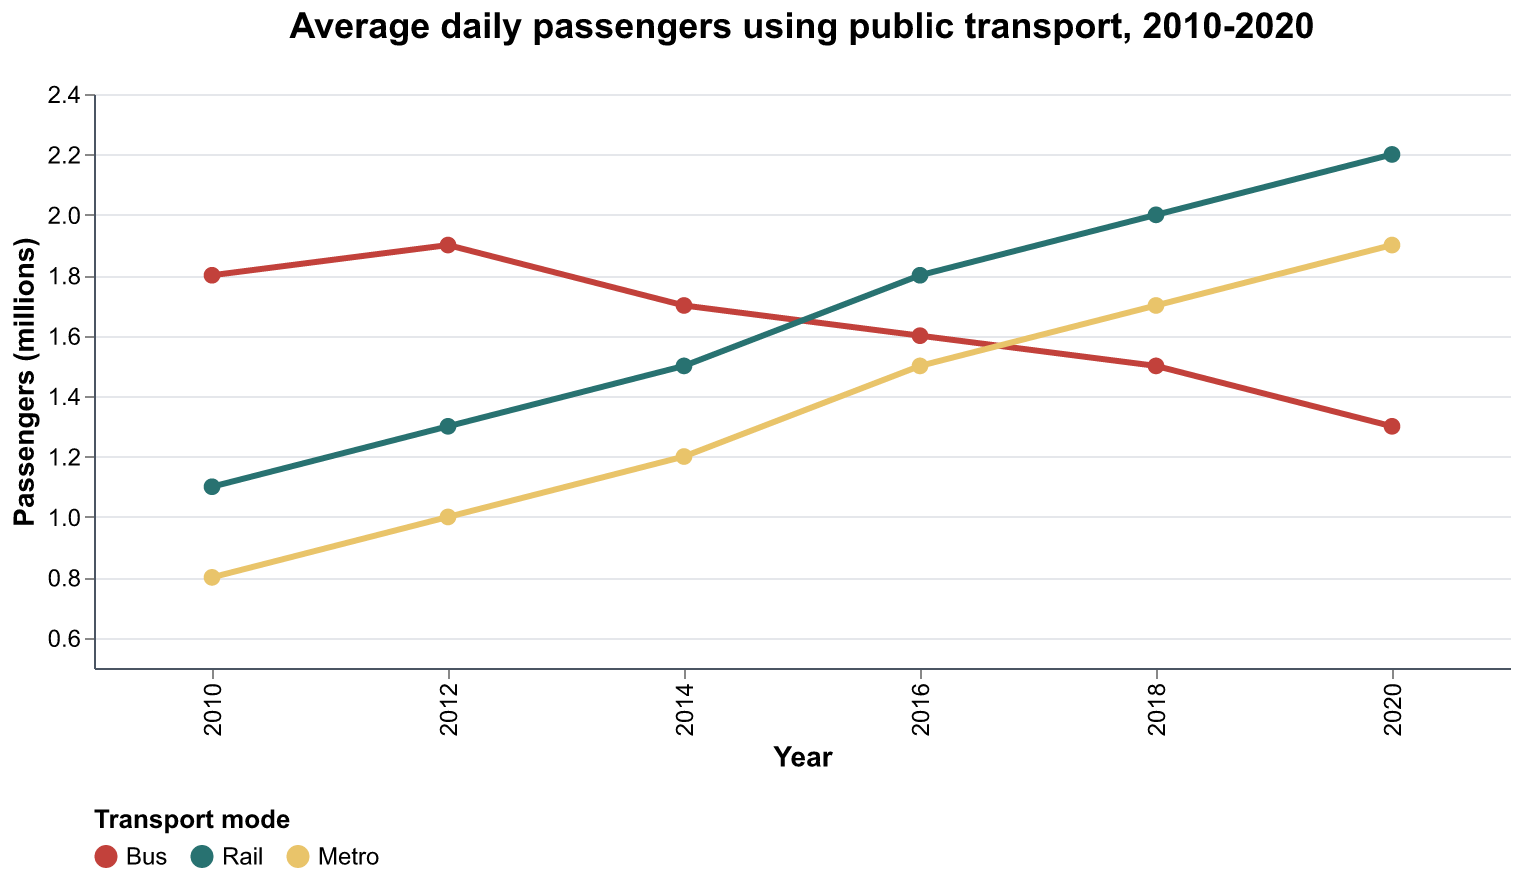
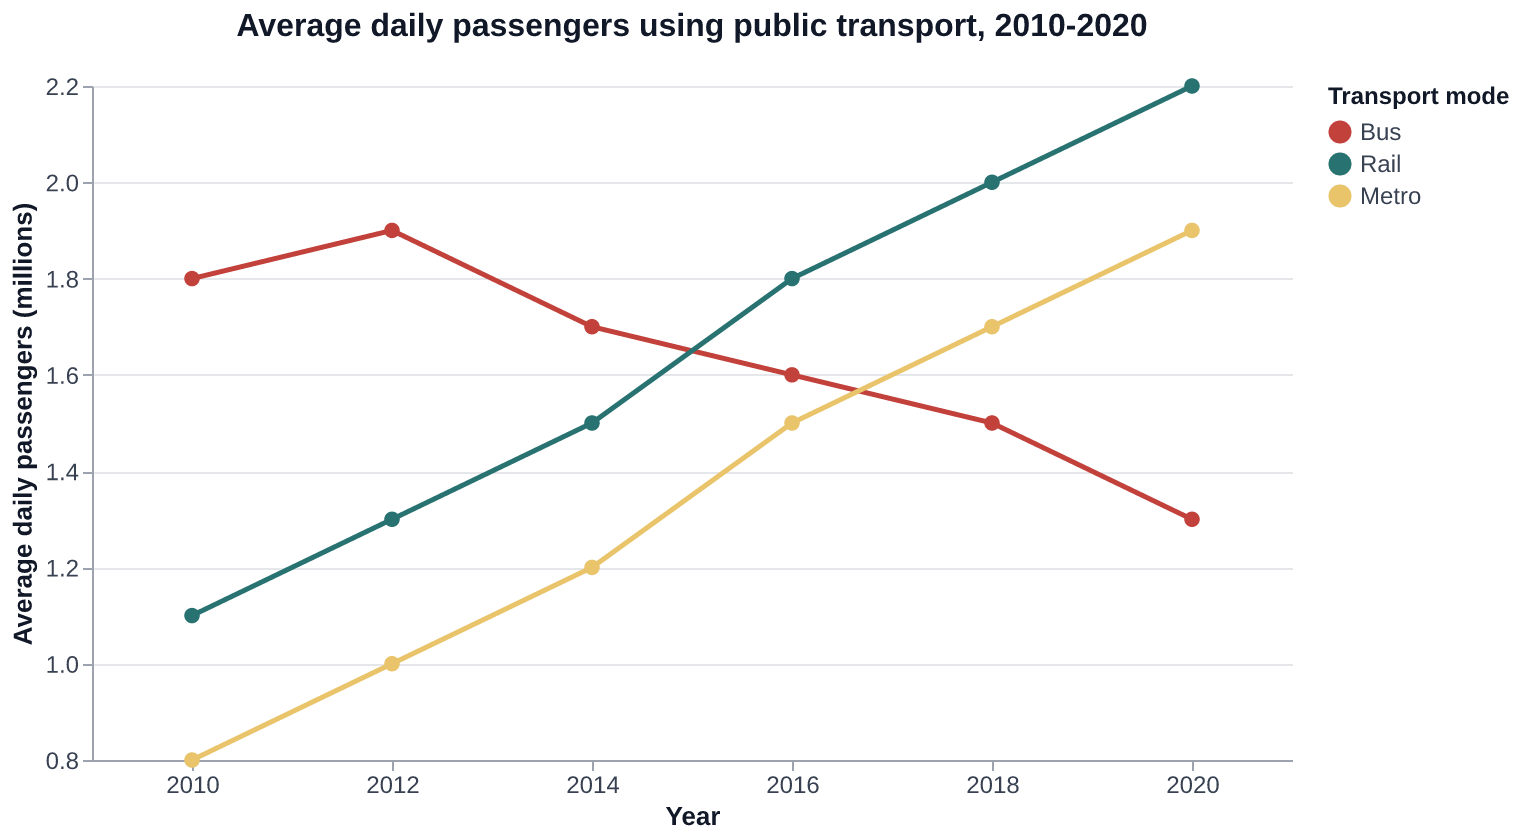
Update line sample and visual cue alignment

diff --git a/frontend/tests/practiceSamples.test.js b/frontend/tests/practiceSamples.test.js
@@ -32,7 +32,7 @@ test('loads a practice image only from static assets and returns its saved DePlo
 
   const { sample, file } = await loadPracticeSample('line-passengers', fetchImpl);
 
-  assert.deepEqual(requestedUrls, ['/practice-samples/02_line_daily_passengers.png']);
+  assert.deepEqual(requestedUrls, ['/practice-samples/02_line_daily_passengers.png?v=32b88ae2']);
   assert.ok(requestedUrls.every((url) => !url.startsWith('/api/')));
   assert.equal(file.name, '02_line_daily_passengers.png');
   assert.equal(file.type, 'image/png');

diff --git a/frontend/src/practiceSamples.js b/frontend/src/practiceSamples.js
@@ -20,7 +20,7 @@ const PRACTICE_SAMPLE_LIST = [
     id: 'line-passengers',
     label: 'Line graph: public transport use',
     chartType: 'line',
-    imageUrl: '/practice-samples/02_line_daily_passengers.png',
+    imageUrl: '/practice-samples/02_line_daily_passengers.png?v=32b88ae2',
     fileName: '02_line_daily_passengers.png',
     deplotText: [
       'TITLE | Average daily passengers using public transport, 2010-2020',

diff --git a/backend/tests/test_move_feedback.py b/backend/tests/test_move_feedback.py
@@ -12,6 +12,8 @@ from move_visual_feedback import (
     RECOMMENDED_LABEL,
     _detect_bar_boxes,
     _draw_callout,
+    _line_data_bbox,
+    _record_boxes,
     render_move_visuals,
 )
 
@@ -904,6 +906,56 @@ class MoveFeedbackTests(unittest.TestCase):
             self.assertIn(tuple(int(CURRENT_COLOR[index:index + 2], 16) for index in (1, 3, 5)), colour_set)
             self.assertIn(tuple(int(RECOMMENDED_COLOR[index:index + 2], 16) for index in (1, 3, 5)), colour_set)
             self.assertEqual(assessment["visual"]["current_focus_labels"][0], "South · 2010 · 18")
+
+    def test_line_visual_ignores_right_legend_and_tracks_new_sample_points(self):
+        source_path = (
+            Path(__file__).resolve().parents[2]
+            / "frontend"
+            / "public"
+            / "practice-samples"
+            / "02_line_daily_passengers.png"
+        )
+        years = ("2010", "2012", "2014", "2016", "2018", "2020")
+        series_values = {
+            "Bus": (1.8, 1.9, 1.7, 1.6, 1.5, 1.3),
+            "Rail": (1.1, 1.3, 1.5, 1.8, 2.0, 2.2),
+            "Metro": (0.8, 1.0, 1.2, 1.5, 1.7, 1.9),
+        }
+        records = [
+            {
+                "period": year,
+                "series": series,
+                "value": series_values[series][year_index],
+                "official_value": series_values[series][year_index],
+            }
+            for year_index, year in enumerate(years)
+            for series in series_values
+        ]
+
+        with Image.open(source_path) as source:
+            bbox = _line_data_bbox(source)
+            boxes = _record_boxes("line", records, source)
+
+        self.assertIsNotNone(bbox)
+        self.assertLess(bbox[0], 205)
+        self.assertGreater(bbox[2], 1180)
+        self.assertLess(bbox[2], 1230)
+        self.assertLess(bbox[1], 100)
+        self.assertGreater(bbox[3], 745)
+
+        def center(index):
+            box = boxes[index]
+            return ((box[0] + box[2]) / 2, (box[1] + box[3]) / 2)
+
+        bus_2010 = center(0)
+        rail_2020 = center(16)
+        metro_2010 = center(2)
+        self.assertAlmostEqual(bus_2010[0], 192, delta=18)
+        self.assertAlmostEqual(bus_2010[1], 279, delta=18)
+        self.assertAlmostEqual(rail_2020[0], 1192, delta=18)
+        self.assertAlmostEqual(rail_2020[1], 86, delta=18)
+        self.assertAlmostEqual(metro_2010[0], 192, delta=18)
+        self.assertAlmostEqual(metro_2010[1], 761, delta=18)
 
     def test_bar_visual_uses_real_bar_bounds_and_teacher_callouts(self):
         source_path = (

diff --git a/backend/move_visual_feedback.py b/backend/move_visual_feedback.py
@@ -99,6 +99,46 @@ def _fallback_plot_bbox(image: Image.Image) -> tuple[int, int, int, int]:
     )
 
 
+def _line_data_bbox(image: Image.Image) -> tuple[int, int, int, int] | None:
+    """Find the continuous line-mark span without absorbing detached legend swatches."""
+    rgb = np.asarray(image.convert("RGB"))
+    height, width = rgb.shape[:2]
+    maximum = rgb.max(axis=2)
+    minimum = rgb.min(axis=2)
+    saturation = maximum - minimum
+    mask = (saturation >= 34) & (maximum <= 250) & (maximum >= 45)
+
+    crop = np.zeros_like(mask)
+    crop[
+        max(0, int(height * 0.04)) : min(height, int(height * 0.96)),
+        max(0, int(width * 0.03)) : min(width, int(width * 0.97)),
+    ] = True
+    mask &= crop
+
+    # A plotted line occupies a long, continuous run of x coordinates. Legend
+    # swatches form short detached runs, even when the legend sits beside the plot.
+    active_columns = mask.sum(axis=0) >= max(2, int(height * 0.002))
+    runs = sorted(
+        _contiguous_runs(active_columns),
+        key=lambda run: run[1] - run[0],
+        reverse=True,
+    )
+    for start, end in runs:
+        if end - start < width * 0.15:
+            continue
+        section = mask[:, start : end + 1]
+        y_values, x_values = np.nonzero(section)
+        if len(x_values) < max(40, int(width * height * 0.0001)):
+            continue
+        return (
+            int(start + x_values.min()),
+            int(y_values.min()),
+            int(start + x_values.max()),
+            int(y_values.max()),
+        )
+    return None
+
+
 def _unique(records: list[dict], field: str) -> list[str]:
     values: list[str] = []
     for record in records:
@@ -336,7 +376,10 @@ def _record_boxes(
     records: list[dict],
     image: Image.Image,
 ) -> dict[int, tuple[float, float, float, float]]:
-    bbox = _colour_data_bbox(image) or _fallback_plot_bbox(image)
+    if chart_type in {"line", "area"}:
+        bbox = _line_data_bbox(image) or _colour_data_bbox(image) or _fallback_plot_bbox(image)
+    else:
+        bbox = _colour_data_bbox(image) or _fallback_plot_bbox(image)
     if chart_type == "bar":
         detected = _detect_bar_boxes(image, len(records))
         if len(detected) == len(records):
